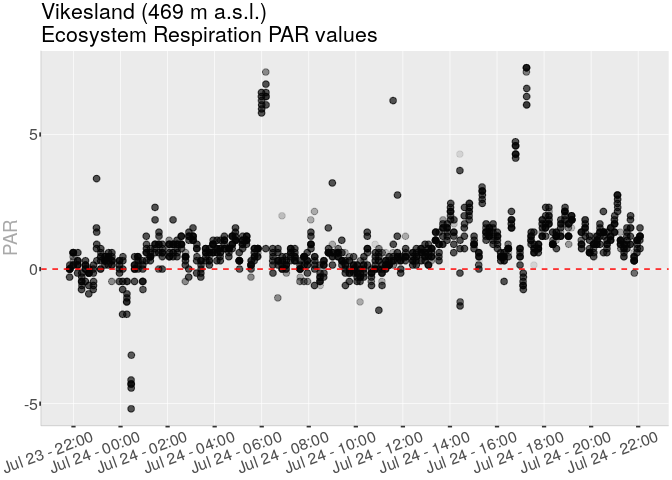
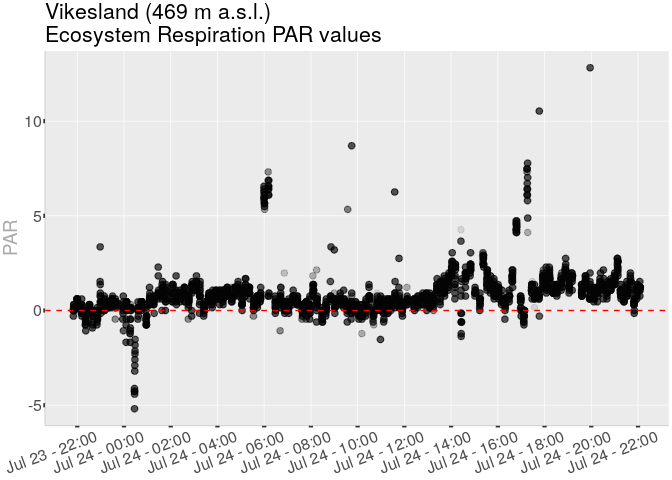
added 24h graph

diff --git a/group_report.md b/group_report.md
@@ -26,20 +26,6 @@ it is ER):
 
 <img src="group_report_files/figure-gfm/unnamed-chunk-4-1.png" style="display: block; margin: auto auto auto 0;" />
 
-# Data dictionaries
-
-## Fluxes
-
-| Variable name | Description                                                              | Variable type | Variable range or levels | Unit           | How measured                                                             |
-|:--------------|:-------------------------------------------------------------------------|:--------------|:-------------------------|:---------------|:-------------------------------------------------------------------------|
-| turfID        | The ID of the plot of the carbon flux measurement                        | numeric       | Inf - -Inf               | NA             | defined                                                                  |
-| pairID        | NA                                                                       | numeric       | 1 - 137                  | NA             | NA                                                                       |
-| type          | Types of the data that were collected with (ER) and without tarps (NEE). | numeric       | Inf - -Inf               | NA             | defined                                                                  |
-| flux          | The value of the measured carbon flux                                    | numeric       | -55.047 - 68.556         | mmol/sqm/h     | calculated                                                               |
-| temp_soil     | NA                                                                       | numeric       | 0.825 - 21.608           | NA             | NA                                                                       |
-| PARavg        | The mean of the Photosynthetic Active Radiation (PAR) value              | numeric       | 0.046 - 1818.049         | micromol/s/sqm | Automatically measured by the PAR sensor and recorded to the data logger |
-| datetime      | Date and time of the measured carbon flux                                | numeric       | Inf - -Inf               | NA             | defined                                                                  |
-
 # Calculations
 
 ## Fluxes
@@ -64,3 +50,25 @@ Where:
 ## Gross primary productivity
 
 GPP = NEE - ER
+
+# Figures
+
+## Vikesland
+
+<img src="group_report_files/figure-gfm/unnamed-chunk-5-1.png" style="display: block; margin: auto auto auto 0;" />
+Fluxes over 24 hours at Vikesland (data not fully cleaned yet, might
+need some more work).
+
+# Data dictionaries
+
+## Fluxes
+
+| Variable name | Description                                                              | Variable type | Variable range or levels | Unit           | How measured                                                             |
+|:--------------|:-------------------------------------------------------------------------|:--------------|:-------------------------|:---------------|:-------------------------------------------------------------------------|
+| turfID        | The ID of the plot of the carbon flux measurement                        | numeric       | Inf - -Inf               | NA             | defined                                                                  |
+| pairID        | NA                                                                       | numeric       | 1 - 137                  | NA             | NA                                                                       |
+| type          | Types of the data that were collected with (ER) and without tarps (NEE). | numeric       | Inf - -Inf               | NA             | defined                                                                  |
+| flux          | The value of the measured carbon flux                                    | numeric       | -55.047 - 68.556         | mmol/sqm/h     | calculated                                                               |
+| temp_soil     | NA                                                                       | numeric       | 0.825 - 21.608           | NA             | NA                                                                       |
+| PARavg        | The mean of the Photosynthetic Active Radiation (PAR) value              | numeric       | 0.046 - 1818.049         | micromol/s/sqm | Automatically measured by the PAR sensor and recorded to the data logger |
+| datetime      | Date and time of the measured carbon flux                                | numeric       | Inf - -Inf               | NA             | defined                                                                  |
